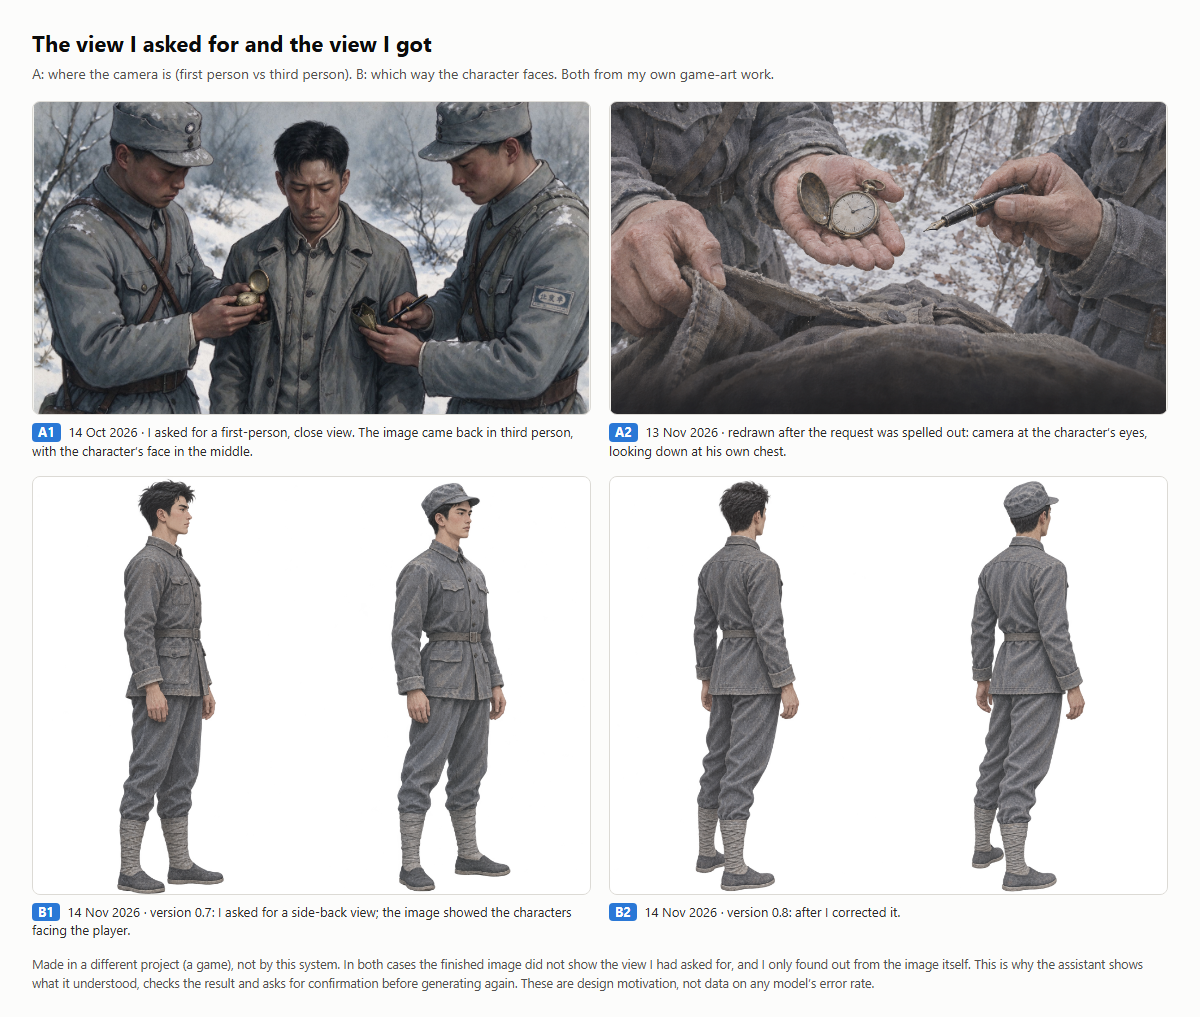
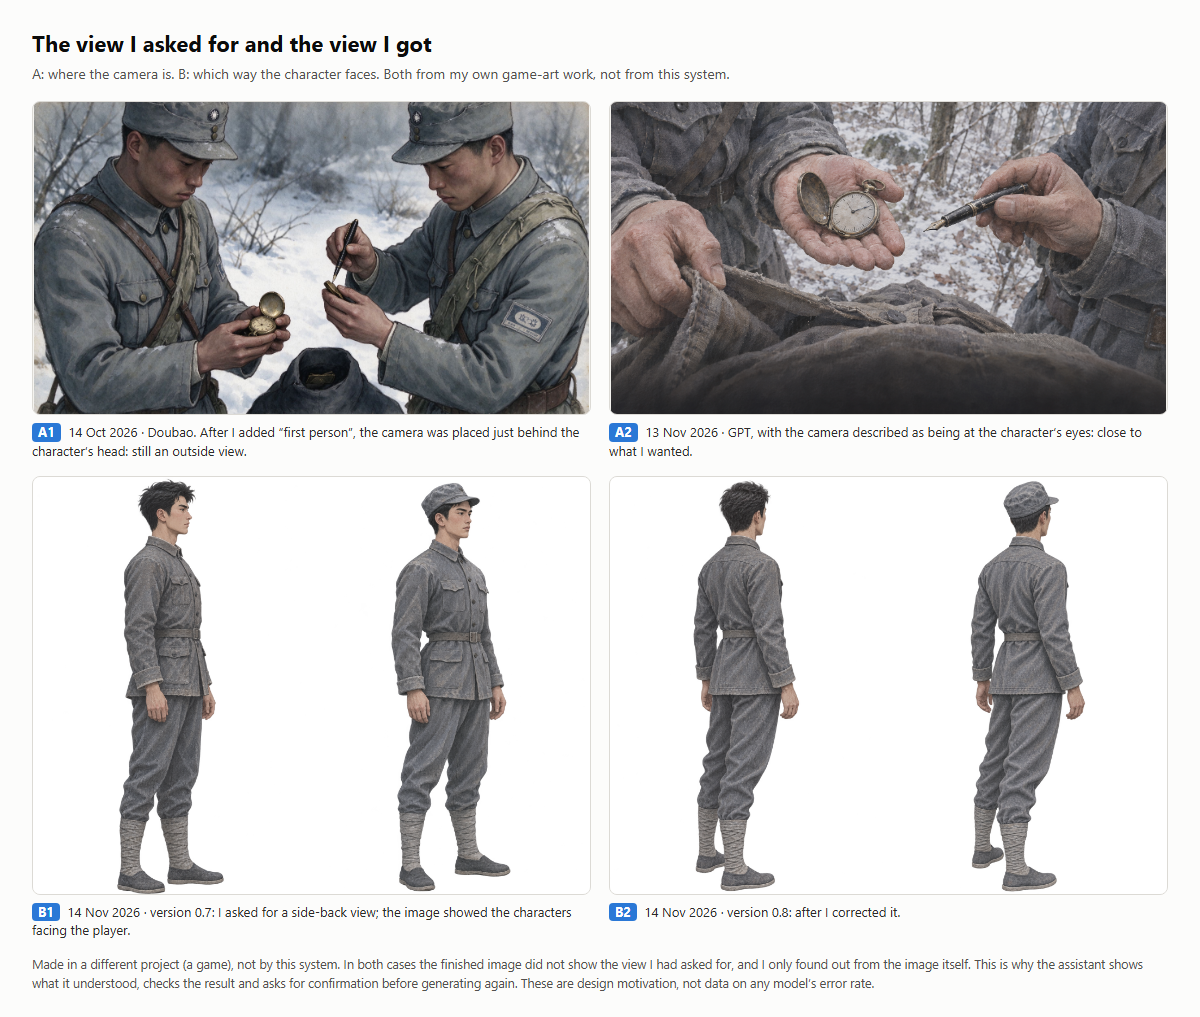
Motivation figure row A: use the pseudo first-person image
The earlier A1 image came from a request that never asked for first
person, so it did not show a misreading. A1 is now the Doubao image made
after "first person" was added, where the camera still sits behind the
character's head; A2 is the GPT image with the camera at the eyes.

Changed region(s): [[0.0308, 0.061, 0.6475, 0.4572], [0.4933, 0.3963, 0.9558, 0.4572]]

diff --git a/docs/a2/motivation/README.md b/docs/a2/motivation/README.md
@@ -2,7 +2,7 @@
 
 Images from a different project (a game), 13–14 November 2026 and one from 14 October 2026. They were **not produced by this system**.
 
-- `first_person_and_orientation.png`: a 2×2 figure. A: a first-person request that came back in third person, and the redraw after the prompt was rewritten. B: a character facing the player more than wanted, and the corrected version.
+- `first_person_and_orientation.png`: a 2×2 figure. A: after "first person" was added, Doubao still placed the camera just behind the character's head (14 Oct 2026); GPT, with the camera described as being at the character's eyes, came close (13 Nov 2026). B: a character facing the player more than wanted, and the corrected version.
 - `orientation_mismatch_v0.7_20261114.png`, `orientation_corrected_v0.8_20261114.png`: the full-size images used in row B.
 
 They motivate showing the angle and confirming it before generating. They are not data about any model's angle accuracy.
